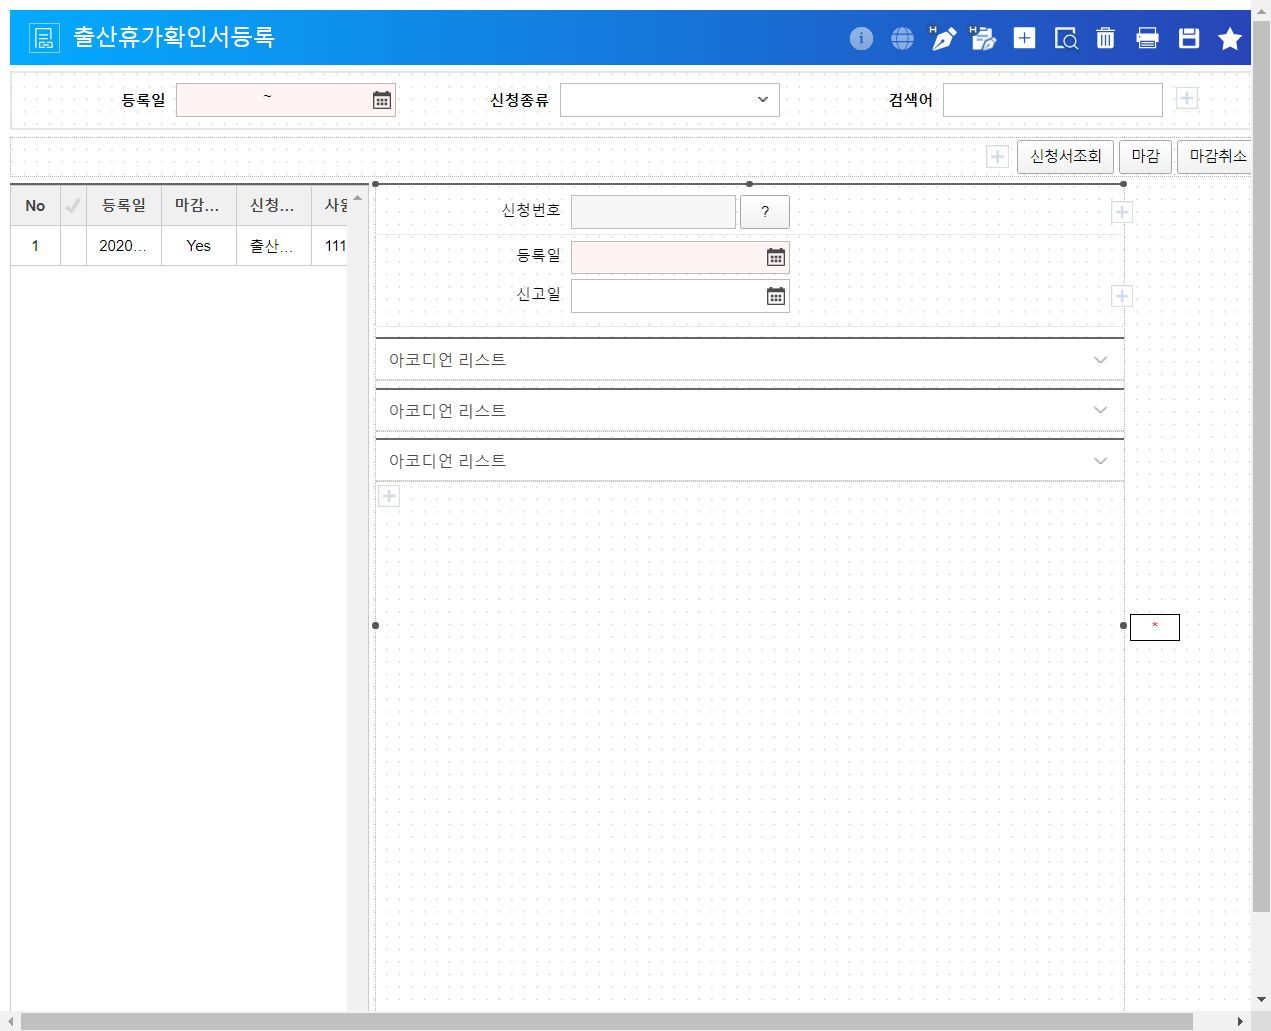
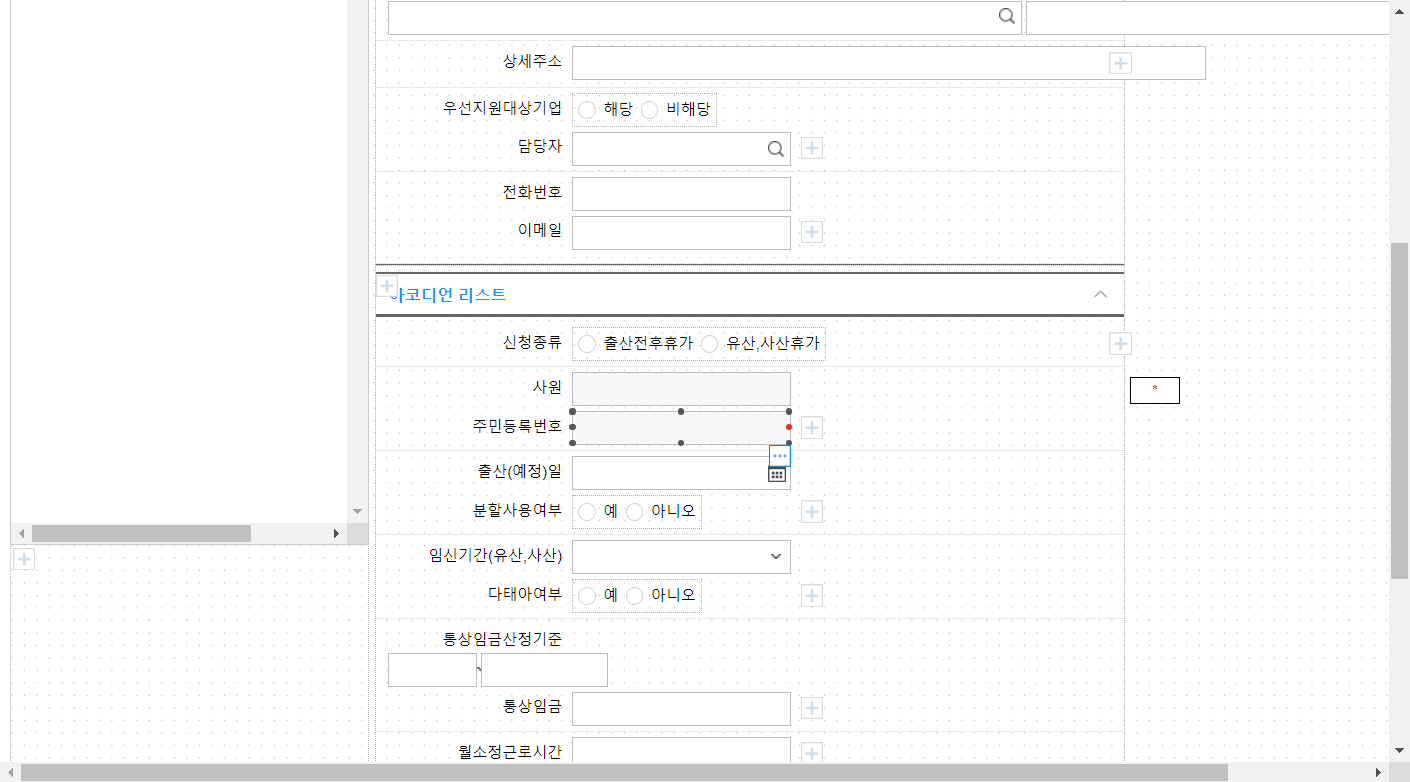
복호화추가, 각 행 change 이벤트 추가

diff --git a/PAMMPM/bin/PAMMPM00200.html b/PAMMPM/bin/PAMMPM00200.html
@@ -1,6 +1,6 @@
-<!--##f8a42845-9f5d-47c3-a66d-6b12cff9504f##-->
+<!--##b133e6fd-d2d5-49f8-9a3c-0dd9007203c6##-->
 <!--##PAMMPM00200##-->
-<!--##/rtmeSG5Hph27O9RLIHnmxQVzuYgZ+e51e3L/l9f6VM=##-->
+<!--##i1SH+WOfabgXFcdRYeU3/pu8lBaKNZ9jVo+AHqsh5Bs=##-->
 <!--
   DEWS UI/UX IDE - Build Result - v1.5
   # PageID: PAMMPM00200
@@ -163,7 +163,7 @@
               <li>
                 <label>주민등록번호</label>
                 <span>
-                  <input id="RES_NO" name="RES_NO" type="text" class="dews-ui-textbox basic" readonly="readonly" />
+                  <input id="RES_NO" name="RES_NO" type="text" class="dews-ui-textbox basic" readonly="readonly" data-dews-use-secure-mask="true" data-dews-secure-mask="B,0,5" />
                 </span>
               </li>
             </ul>
@@ -231,8 +231,8 @@
       <ul>
         <li class="dews-arcodien-item" data-dews-item-title="대상기간급여내역" data-dews-item-height="0" data-dews-item-open="true">
           <div class="dews-button-group" style="text-align: right;">
-            <button class="dews-ui-button small">추가</button>
-            <button class="dews-ui-button small">삭제</button>
+            <button id="dtl_grid_add" class="dews-ui-button small">추가</button>
+            <button id="dtl_grid_delete" class="dews-ui-button small">삭제</button>
           </div>
           <div id="MtnityidnfDtl_grid" class="dews-ui-grid"></div>
         </li>
@@ -536,7 +536,7 @@
     
         //dews.ui.loading.show();
         //self.mtnityidnfMaster_ds.read();
-    
+        console.log("awdwadwadwaadwadawd@@@@@@");
         //self.mtnityidnfMaster_ds.read();
         //self.MtnityidnfDtl_ds.read();
     
@@ -655,13 +655,54 @@
         var grid = self.mtnityidnfMaster_grid;
         grid.setCellValue(grid.select(), 'BIZAREA_MNG_NO', self.BIZAREA_MNG_NO.text(), false);
     });
+    self.POST_NO.on('setData', /*392222fa-4e11-4858-8c7a-abb26d2e619b*/ function (e) {
+        var grid = self.mtnityidnfMaster_grid;
+    
+        grid.setCellValue(grid.select(), 'POST_NO', e.zonecode, false);
+        grid.setCellValue(grid.select(), 'ADDR_TP', e.userSelectedType, false); // 주소 타입
+    
+        if (e.userSelectedType == 'R') {
+            $("#BASE_ADDR").val(e.roadAddress);
+            grid.setCellValue(grid.select(), 'BASE_ADDR', e.roadAddress, false);
+            // console.log("주소 변경시 R 선택됨");
+        } else if (e.userSelectedType == 'J') {
+            $("#BASE_ADDR").val(e.jibunAddress);
+            grid.setCellValue(grid.select(), 'BASE_ADDR', e.jibunAddress, false);
+            // console.log("주소 변경시 J 선택됨");
+        }
+    });
     self.PSPTCOM_YN.on('change', /*0cc05dc7-8ea0-41c7-a6e3-8b6e252eb9a7*/ function (e) {
         var grid = self.mtnityidnfMaster_grid;
         grid.setCellValue(grid.select(), 'PSPTCOM_YN', self.PSPTCOM_YN.value(), false); // 선택된 라디오 버튼 값으로 변경
     });
+    self.RSPT_EMP_NO.on('setData', /*b6d4444c-8352-41a6-a1e3-ea4e78892482*/ function (e) {
+        //console.log('e.code  : ' + e.code + '   // e.text  : ' + e.text  + '  //  pickerData : ' + pickerData);
+        var mstGrid = self.mtnityidnfMaster_grid;
+        // console.log("담당자 변경시 이벤트 객체e:", e);
+        // console.log("담당자 변경시 이벤트 객체pickerData:", pickerData);
+        mstGrid.setCellValue(mstGrid.select(), 'RSPT_EMP_NO', pickerData.EMP_NO, false); // 담당자 사원번호 변경
+        mstGrid.setCellValue(mstGrid.select(), 'RSPT_EMP_NM', pickerData.KOR_NM, false); // 담당자 사원명 변경
+        GetLoginMemberInfo(pickerData.EMP_NO); // 담당자 전화번호, 이메일 변경
+    
+        self.mtnityidnfMaster_grid.bindPanel(self.topReqPanel);
+        self.mtnityidnfMaster_grid.bindPanel(self.bizareaInfoPanel);
+        self.mtnityidnfMaster_grid.bindPanel(self.trgtpInfoPanel);
+    });
+    self.$RSPT_TEL_NO.on('change', /*0f81bd29-7edc-4f6c-a083-9d0d3a4f50a9*/ function (e) {
+        var grid = self.mtnityidnfMaster_grid;
+        grid.setCellValue(grid.select(), 'RSPT_TEL_NO', self.RSPT_TEL_NO.text(), false);
+    });
+    self.$RSPT_EMAIL_NM.on('change', /*6bce4692-42f7-4732-9a70-7483aa8cfcae*/ function (e) {
+        var grid = self.mtnityidnfMaster_grid;
+        grid.setCellValue(grid.select(), 'RSPT_EMAIL_NM', self.RSPT_EMAIL_NM.text(), false);
+    });
     self.REQ_KND_FG.on('change', /*8459e248-1de1-498b-8d7c-2935dcc72f9f*/ function (e) {
         var grid = self.mtnityidnfMaster_grid;
         grid.setCellValue(grid.select(), 'REQ_KND_FG', self.REQ_KND_FG_radioBtn.value(), false);
+    });
+    self.CHLDBRTH_DT.on('change', /*d32ab5c0-5190-469b-9d93-71840b86a847*/ function (e) {
+        var grid = self.mtnityidnfMaster_grid;
+        grid.setCellValue(grid.select(), 'CHLDBRTH_DT', self.CHLDBRTH_DT.value(), false);
     });
     self.DIVD_YN.on('change', /*05f9eda3-3df3-4c59-953d-883514827393*/ function (e) {
         var grid = self.mtnityidnfMaster_grid;
@@ -677,6 +718,35 @@
         grid.setCellValue(grid.select(), 'MLTPPRGN_YN', self.MLTPPRGN_YN.value(), false);
     });
     self.USL_WAGE_CD.setDataSource(self.pipeDataSource1_P03520);
+    self.USL_WAGE_CD.on('change', /*5649b48e-81bc-49a4-a9e8-2cf3f9cd710f*/ function (e) {
+        var grid = self.mtnityidnfMaster_grid;
+        grid.setCellValue(grid.select(), 'USL_WAGE_CD', self.USL_WAGE_CD.value(), false);
+    });
+    self.$USL_WAGE_AMT.on('change', /*32fdaa12-a104-4c1a-bac6-75a2d6f34a0c*/ function (e) {
+        var grid = self.mtnityidnfMaster_grid;
+        grid.setCellValue(grid.select(), 'USL_WAGE_AMT', self.USL_WAGE_AMT.value(), false);
+    });
+    self.$MM_FIXED_LABORTM_DY.on('change', /*2b41a048-e8ad-4d3d-94d3-af150947c0af*/ function (e) {
+        var grid = self.mtnityidnfMaster_grid;
+        grid.setCellValue(grid.select(), 'MM_FIXED_LABORTM_DY', self.MM_FIXED_LABORTM_DY.text(), false);
+    });
+    self.$dtl_grid_add.on('click', /*83964e89-d24d-4646-823e-cb546edecfa4*/ function (e) {
+        var dtl_grid = self.MtnityidnfDtl_grid;
+        dtl_grid.addRow(); // 해당 grid에 row 추가하기
+        dtl_grid.setCellValue(dtl_grid.select(), 'PAY_YN', 'N', false); // 추가된 row의 PAY_YN을 디폴트 N으로 설정
+    
+    
+        // 문서번호, 사원번호는  마스터그리드에서 가져와서 저장
+        var mst_grid = self.mtnityidnfMaster_grid;
+        dtl_grid.setCellValue(dtl_grid.select(), 'DOC_NO', mst_grid.getCellValue(mst_grid.select(), 'DOC_NO'), false); // 마스터그리드에서 현재 row의 문서번호 가져와 저장
+        dtl_grid.setCellValue(dtl_grid.select(), 'EMP_NO', mst_grid.getCellValue(mst_grid.select(), 'EMP_NO'), false); // 마스터그리드에서 현재 row의 사원번호 가져와 저장 
+        // SQ_NO를 하나 증가시킨다. (현재 있는 쿼리문에서 max+1(grid의 행중에 가장 큰 SQ_NO) 써서 사용한다.)
+        // 서브쿼리 사용 시 : (select max(SQ_NO) from 테이블명)
+    });
+    self.$dtl_grid_delete.on('click', /*c5932274-a431-441d-ac89-efca2a7d61ef*/ function (e) {
+        var grid = self.MtnityidnfDtl_grid;
+        grid.removeRow(grid.select());
+    });
     dews.ui.grid(self.$MtnityidnfDtl_grid, {
       dataSource: self.MtnityidnfDtl_ds,
       editable: true,
@@ -762,7 +832,34 @@
       fixed: {
         colCount: 0,
         rightColCount: 0
-      }
+      },
+      save: /*69d0324f-9d3b-40fa-b2c7-98860320e18b*/ function (e) {
+            console.log("저장실행함");
+            // var thisGrid = e.grid; // 지금 이벤트 발생하는 그리드 선택
+    
+            // // var grid=self.MtnityidnfDtl_grid;
+            // // var data1=grid.getCellValue(grid.select(), 'START_DT');
+            // // console.log('data1', data1);
+    
+            // var startDate = e.row.data.START_DT; // 변경된 시작일
+            // var endDate = e.row.data.END_DT; // 변경된 종료일
+    
+    
+    
+            // if (startDate != null && endDate != null) { // 둘 다 선택되면
+            //     var diff = ((endDate - startDate) / (60 * 60 * 24 * 1000)) + 1; // 시작일과 종료일의 일수 계산
+            //     if (diff > 0) {
+            //         thisGrid.setCellValue(e.row.index, 'BWRK_DY', diff, false);
+            //     } else if (diff <= 0) {
+            //         dews.ui.snackbar.warning(dews.localize.get("시작일은 종료일과 같거나 이전날짜를 선택해야 합니다.", "M0012831", '', 'PAMMPM00200'));
+            //         // console.log('e.row.index:', e.row.index);
+            //         // console.log('변경된 컬럼 이름:', e.cell.field);
+            //         thisGrid.setCellValue(e.row.index, 'BWRK_DY', 0, false); // 일수 0으로 초기화
+            //         thisGrid.setCellValue(e.row.index, e.cell.field, '', false); // 변경된 날짜 피커 초기화
+            //     }
+            // }
+        }
+    
     });
     
     

diff --git a/PAMMPM/bin/PAMMPM00200_2.html b/PAMMPM/bin/PAMMPM00200_2.html
@@ -1,6 +1,6 @@
-<!--##f5f03b53-4c41-447e-8596-16e17950b477##-->
+<!--##f4a4240f-ebd8-4d1a-bfc1-283972f082a8##-->
 <!--##PAMMPM00200_2##-->
-<!--##d0BiLfuAU88WCltPoW9WhtXqDD+e7NyLOVGdEww/tWY=##-->
+<!--##HK+GipojbRRWi2o2kK8tsAfpuv2i3J3vD4GF78cAHR8=##-->
 <!--
   DEWS UI/UX IDE - Build Result - v1.5
   # PageID: PAMMPM00200_2
